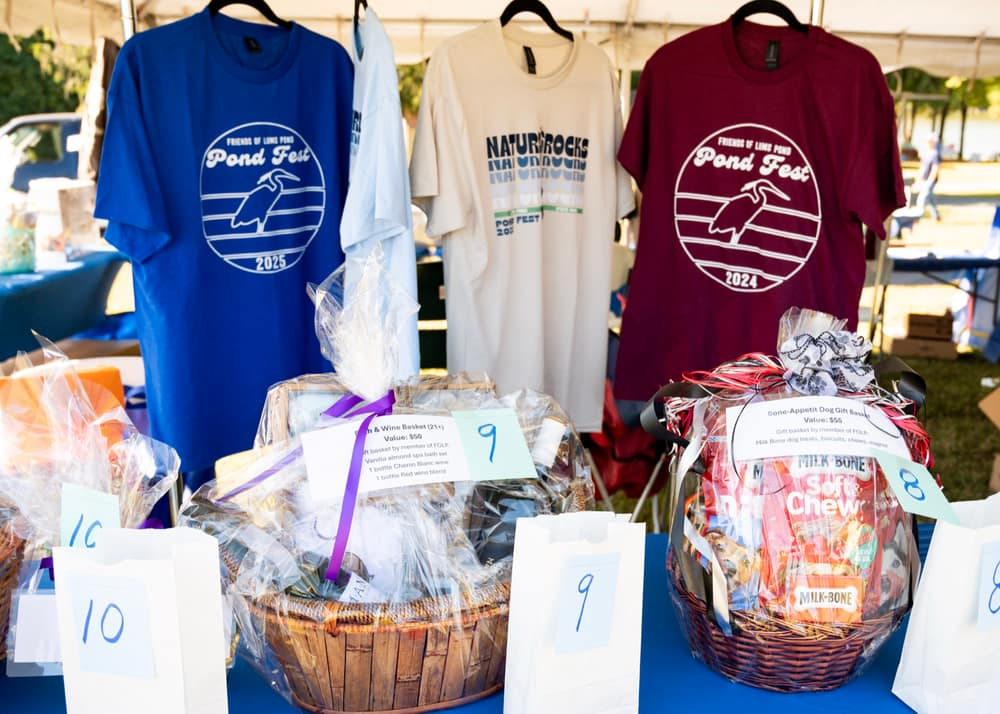
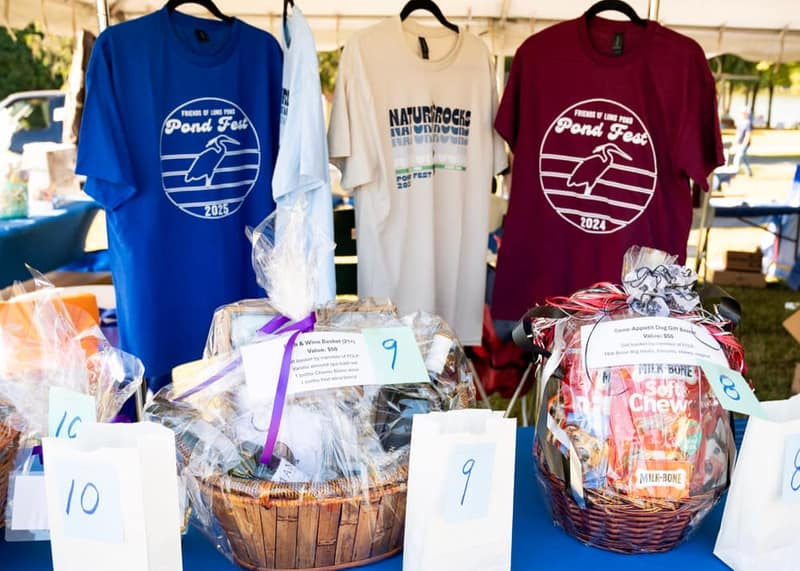
Pond Fest 2026: cut the page weight, and a better playground photo
The playground photo now comes from Delaware State Parks' own media,
via their New Castle County playground roundup, which is both a sharper
picture and a source we can name. Credited to Delaware State Parks with
a link to the article. Replaces the TripAdvisor upload, which had no
identifiable author and so could not be credited at all.

Page weight. WebP was the obvious idea and it is not worth it here: the
JPEGs have already been through mozjpeg, so a full conversion saved 11%
overall and came out *larger* on six of them, on top of stacking a second
round of lossy encoding on already-lossy files. The waste was in pixels,
not format:

- lineup thumbnails were 400px square for an 88px box, over 2x even on a
  retina screen. Now 200px: 139 KB -> 31 KB.
- gallery photos were 1000px wide for a masonry column that tops out
  around 350px. Now 800px, which still covers 2x: 1567 KB -> 1043 KB.
- the hero and the photo band are CSS backgrounds, so a phone was
  downloading the full desktop file before it could paint. Both now have
  an 800px variant, chosen under 768px through a custom property so the
  URL still comes from config rather than being hardcoded in the
  stylesheet.

Full scroll goes 4.00 MB -> 3.49 MB on desktop and 3.12 MB on a phone.
First paint on a phone goes from roughly 480 KB to 256 KB, which is the
number that actually matters on park cell service.

Also retires the last four em dashes in rendered copy, in the 2024 and
2025 archive highlights.

diff --git a/src/data/pondfest/config.ts b/src/data/pondfest/config.ts
@@ -27,6 +27,9 @@ export const FUNDRAISING_GOAL = "$30,000";
 
 // Hero and map images — place files in public/pondfest/
 export const HERO_IMAGE_URL = "/pondfest/hero.jpg";
+// Phone-sized copy of the hero. It is a CSS background, so without this a
+// phone downloads the full desktop file before it can paint anything.
+export const HERO_IMAGE_MOBILE_URL = "/pondfest/hero-sm.jpg";
 export const OG_IMAGE_URL = "/pondfest/og.jpg";
 export const EVENT_MAP_IMAGE_URL = "/pondfest/map-event.jpg";
 export const EVENT_MAP_FULL_URL = "/pondfest/map-event-full.jpg";
@@ -41,6 +44,7 @@ export const VENDOR_MAP_IMAGE_URL = "";
 // Full-width photo band between Lineup and Get Involved sections
 // Recommended: wide panoramic crowd/stage shot (landscape, high-res)
 export const PHOTO_BAND_1_URL = "/pondfest/wide-1.jpg";
+export const PHOTO_BAND_1_MOBILE_URL = "/pondfest/wide-1-sm.jpg";
 
 // Gallery grid on the index page. Drop new files in public/pondfest/gallery/ and
 // add paths here. Keep photos already used in AMENITIES out of this list so the
@@ -381,9 +385,9 @@ export const AMENITIES: Amenity[] = [
     desc: "The park's own playground sits right in the middle of Area 2, open all day and free. Handy when someone has had enough of standing in lines.",
     imageUrl: "/pondfest/playground.jpg",
     imageAlt: "The big kids' playground at Lums Pond State Park",
-    // Sourced from a public TripAdvisor upload with no identifiable author, so
-    // there is no credit we can print honestly. Replace with our own photo.
-    credit: "",
+    credit: "Delaware State Parks",
+    creditUrl:
+      "https://www.destateparks.com/playground-roundup-new-castle-county/",
   },
   {
     id: "kayak-launch",

diff --git a/src/data/pondfest/archive/2025.ts b/src/data/pondfest/archive/2025.ts
@@ -8,8 +8,8 @@ export const PONDFEST_2025: ArchiveYear = {
   grossRevenue: 19000,
   fundraisingGoal: 10000,
   highlights: [
-    "Second annual Pond Fest — largest event to date with ~1,500 attendees",
-    "Raised ~$19,000 gross — nearly doubling the $10,000 goal",
+    "Second annual Pond Fest, and the largest to date with about 1,500 attendees",
+    "Raised about $19,000 gross, nearly double the $10,000 goal",
     "Expanded to three named pavilion stages: Wingspan, Monarch, and Nest Box",
     "11 live acts including Secondhand Stray, FINN, Big Izzy and Bullfrog, The Mad Dabbers, and Ballet Folklórico",
     "Open Mic stage all day at the Nest Box pavilion",

diff --git a/src/data/pondfest/archive/2024.ts b/src/data/pondfest/archive/2024.ts
@@ -8,9 +8,9 @@ export const PONDFEST_2024: ArchiveYear = {
   grossRevenue: 10738,
   fundraisingGoal: 4000,
   highlights: [
-    "First-ever Pond Fest — FOLP's inaugural signature fundraiser",
+    "First-ever Pond Fest, and FOLP's inaugural signature fundraiser",
     "~600 attendees from the local community",
-    "Raised $10,738 gross — far exceeding the $4,000 goal",
+    "Raised $10,738 gross, far exceeding the $4,000 goal",
     "Two live music acts: PJ's Pub Tour and Lucky Stone",
     "35+ craft vendors, artisans, and nonprofits",
     "Beer garden featuring JAKL Beer Works and Volunteer Brewing Co.",
